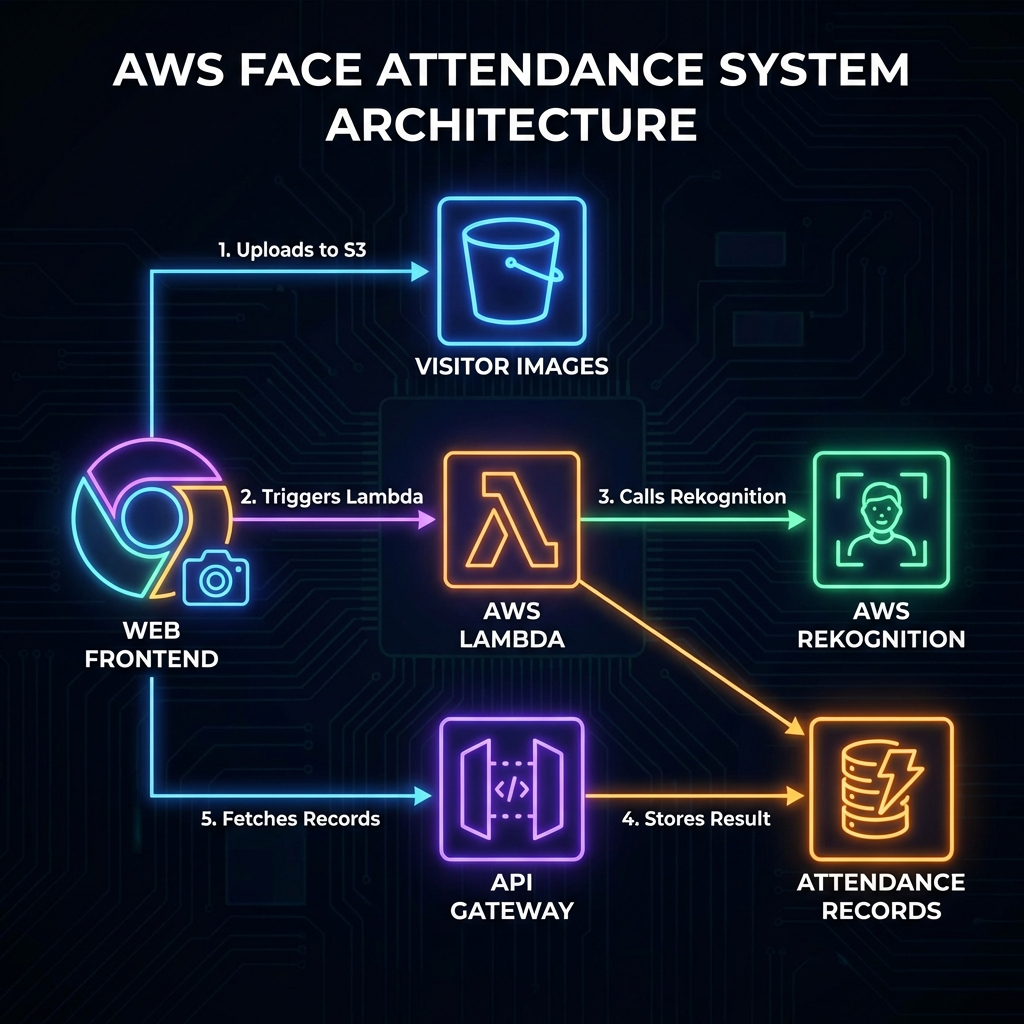
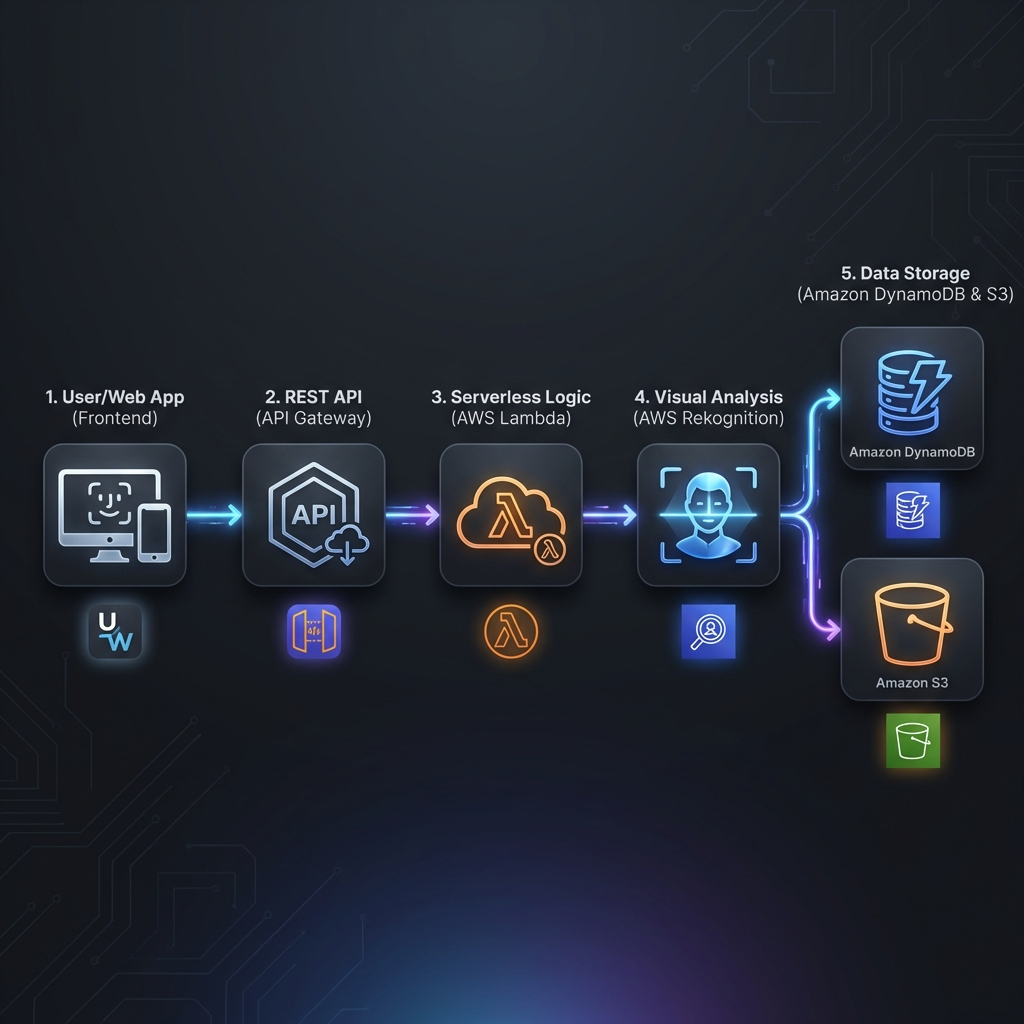
Update DynamoDB schema, Readme, and add premium architecture diagrams

diff --git a/Backend/S3 Bucket.md b/Backend/S3 Bucket.md
@@ -93,4 +93,45 @@
         ]
     }
 ]
+
 ```
+
+#Face-attendance-website
+
+   #Bucket Policy
+    {
+    "Version": "2012-10-17",
+    "Statement": [
+        {
+            "Sid": "PublicRead",
+            "Effect": "Allow",
+            "Principal": "*",
+            "Action": "s3:GetObject",
+            "Resource": "arn:aws:s3:::attendance.muein.cloud/*"
+        }
+    ]
+}
+
+# CORS policy
+
+    [
+    {
+        "AllowedHeaders": [
+            "*"
+        ],
+        "AllowedMethods": [
+            "GET",
+            "PUT",
+            "POST",
+            "HEAD"
+        ],
+        "AllowedOrigins": [
+            "http://attendance.muein.cloud",
+            "https://attendance.muein.cloud",
+            "http://localhost:8000"
+        ],
+        "ExposeHeaders": [
+            "ETag"
+        ]
+    }
+]

diff --git a/Readme.md b/Readme.md
@@ -1,6 +1,9 @@
 # Face Attendance System Workflow
 
-![Architecture Workflow](attendance_system_workflow.png)
+![Simplified Workflow](attendance_system_workflow.png)
+
+## System Architecture
+![Detailed Technical Architecture](detailed_architecture.png)
 
 ## Overview
 This project is an automated Face Attendance System powered by AWS. It leverages serverless architecture to provide a seamless experience for both employees and administrators.

diff --git a/Backend/DynamoDB.md b/Backend/DynamoDB.md
@@ -1,0 +1,7 @@
+# Employee table
+> Partition key - employeeId (String)
+> Sort key - rekognitionFaceId (String)
+
+# Attendance table
+> Partition key - employeeId (String)
+> Sort key - timestamp (String)
